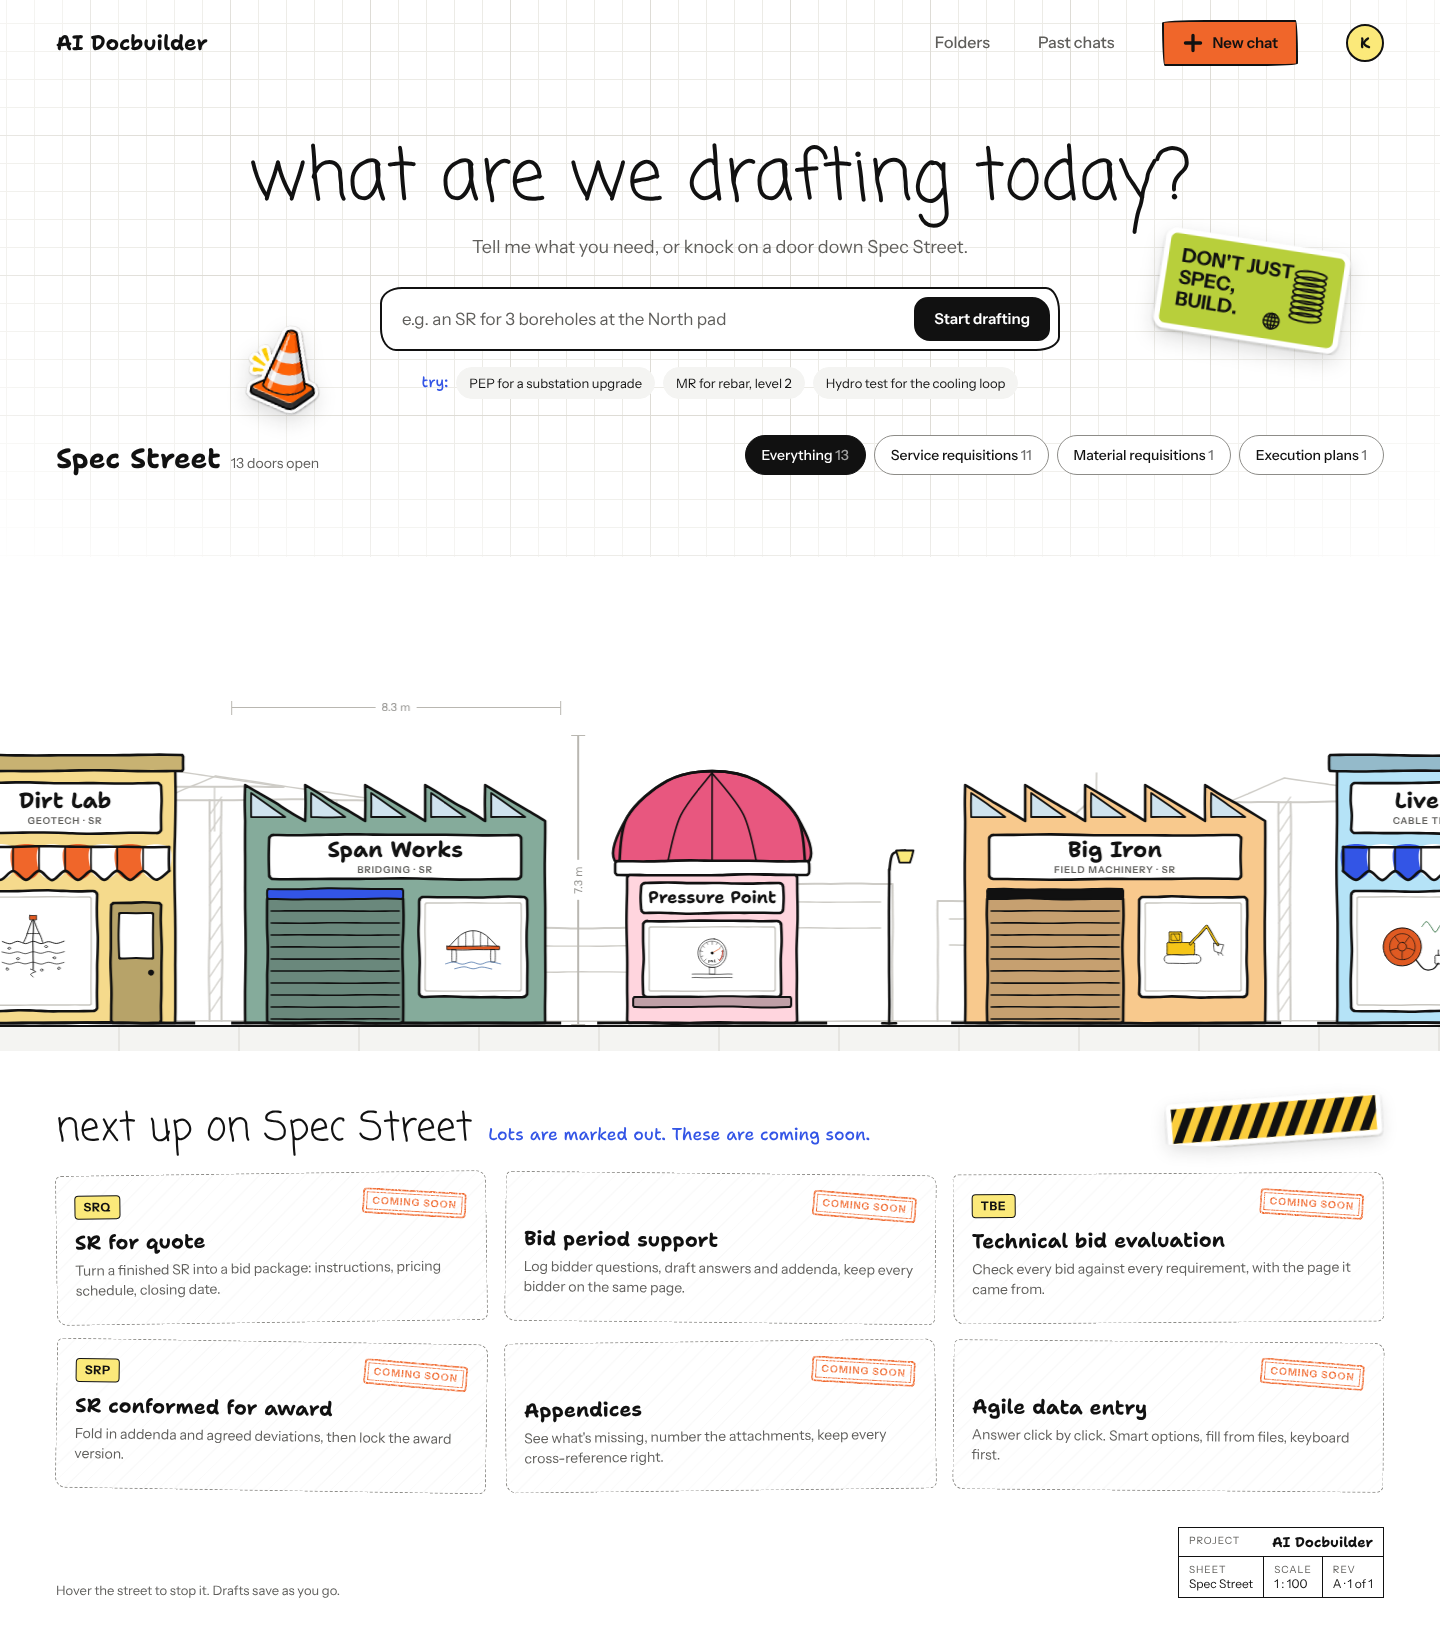
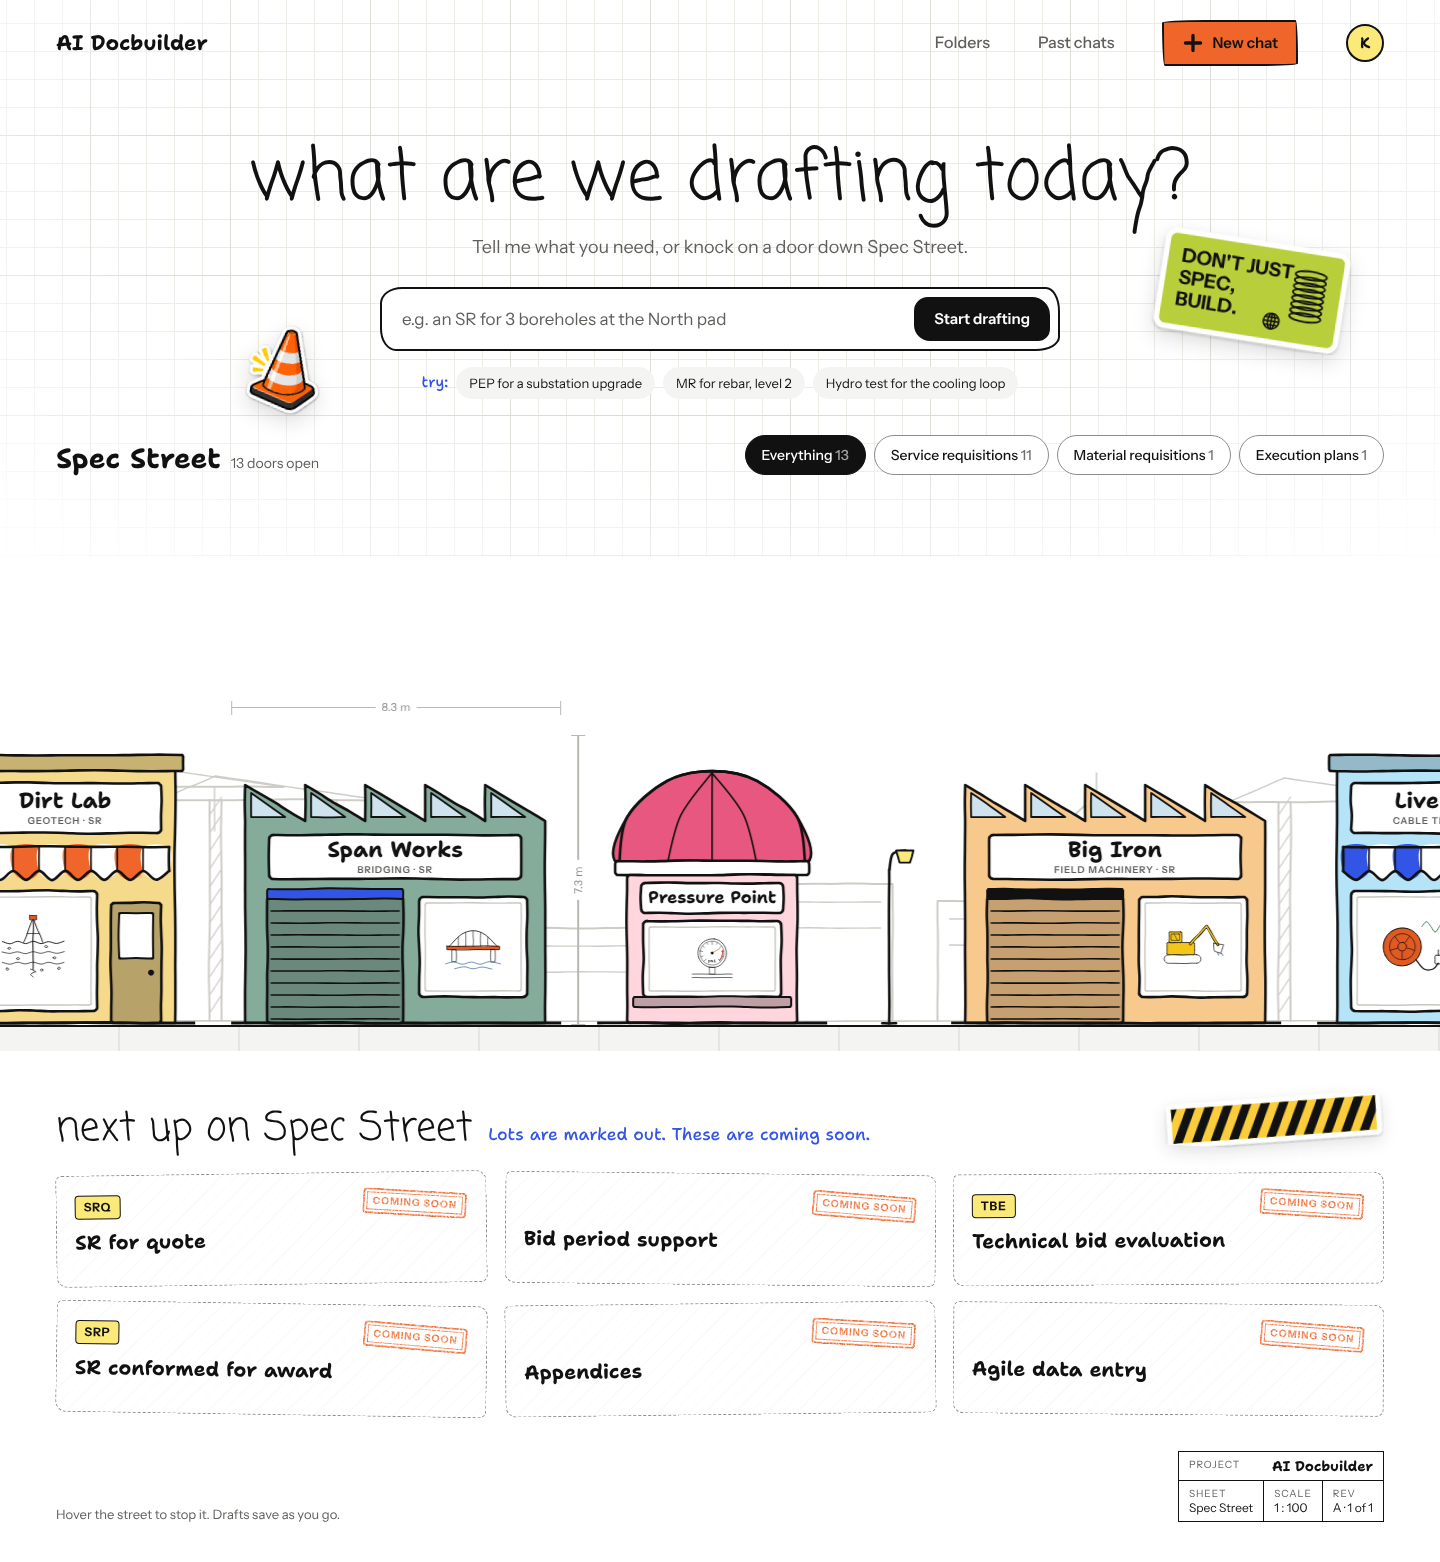
Coming soon lots: names only

diff --git a/app/src/screens/street/ComingSoon.tsx b/app/src/screens/street/ComingSoon.tsx
@@ -2,15 +2,15 @@
  * "Coming soon" lots on Spec Street: the next things Docbuilder will help with.
  * Display only for now. When one ships, move it into the street as a real door.
  */
-type Lot = { code?: string; name: string; line: string };
+type Lot = { code?: string; name: string };
 
 const LOTS: Lot[] = [
-  { code: "SRQ", name: "SR for quote", line: "Turn a finished SR into a bid package: instructions, pricing schedule, closing date." },
-  { name: "Bid period support", line: "Log bidder questions, draft answers and addenda, keep every bidder on the same page." },
-  { code: "TBE", name: "Technical bid evaluation", line: "Check every bid against every requirement, with the page it came from." },
-  { code: "SRP", name: "SR conformed for award", line: "Fold in addenda and agreed deviations, then lock the award version." },
-  { name: "Appendices", line: "See what's missing, number the attachments, keep every cross-reference right." },
-  { name: "Agile data entry", line: "Answer click by click. Smart options, fill from files, keyboard first." },
+  { code: "SRQ", name: "SR for quote" },
+  { name: "Bid period support" },
+  { code: "TBE", name: "Technical bid evaluation" },
+  { code: "SRP", name: "SR conformed for award" },
+  { name: "Appendices" },
+  { name: "Agile data entry" },
 ];
 
 export function ComingSoon() {
@@ -29,7 +29,6 @@ export function ComingSoon() {
               <span className="st-lot__stamp" aria-hidden="true">coming soon</span>
             </div>
             <h3 className="st-lot__name">{l.name}</h3>
-            <p className="st-lot__line">{l.line}</p>
             <span className="sr-only">Coming soon.</span>
           </li>
         ))}

diff --git a/app/src/screens/street/street.css b/app/src/screens/street/street.css
@@ -117,7 +117,7 @@
 .st-soon__sub { margin: 0; font: 500 17px/22px var(--font-hand); color: var(--blue); }
 .st-soon__tape { position: absolute; right: 0; top: -18px; width: 220px; height: auto; rotate: 3deg; pointer-events: none; filter: drop-shadow(0 6px 8px rgba(17,17,17,.12)); }
 .st-soon__lots { list-style: none; margin: 0; padding: 0; display: grid; grid-template-columns: repeat(3, 1fr); gap: 18px; }
-.st-lot { position: relative; display: flex; flex-direction: column; gap: 6px; min-height: 150px; padding: 18px 18px 16px;
+.st-lot { position: relative; display: flex; flex-direction: column; gap: 6px; min-height: 112px; padding: 18px 18px 16px;
   background: repeating-linear-gradient(-45deg, transparent 0 10px, rgba(17,17,17,.025) 10px 11px), var(--paper);
   border: 1.5px dashed var(--pencil); border-radius: 6px 10px 7px 11px; transition: border-color 160ms ease, translate 240ms var(--ease-slap); }
 .st-lot:hover { border-color: var(--ink); translate: 0 -3px; }

diff --git a/HANDOFF.md b/HANDOFF.md
@@ -109,7 +109,7 @@ Full brand book: `design-system/README.md`. The short version:
 
 ## Roadmap shown on the main screen
 
-`src/screens/street/ComingSoon.tsx` lists what's next as "coming soon" lots (display only, no logic):
+`src/screens/street/ComingSoon.tsx` lists what's next as "coming soon" lots (name and code only, no descriptions yet, no logic):
 SRQ (SR for quote), bid period support, TBE (technical bid evaluation), SRP (SR conformed for award),
 appendices, and agile click-by-click data entry. When one ships, remove it from `LOTS` and add it as a real door or flow.
 
